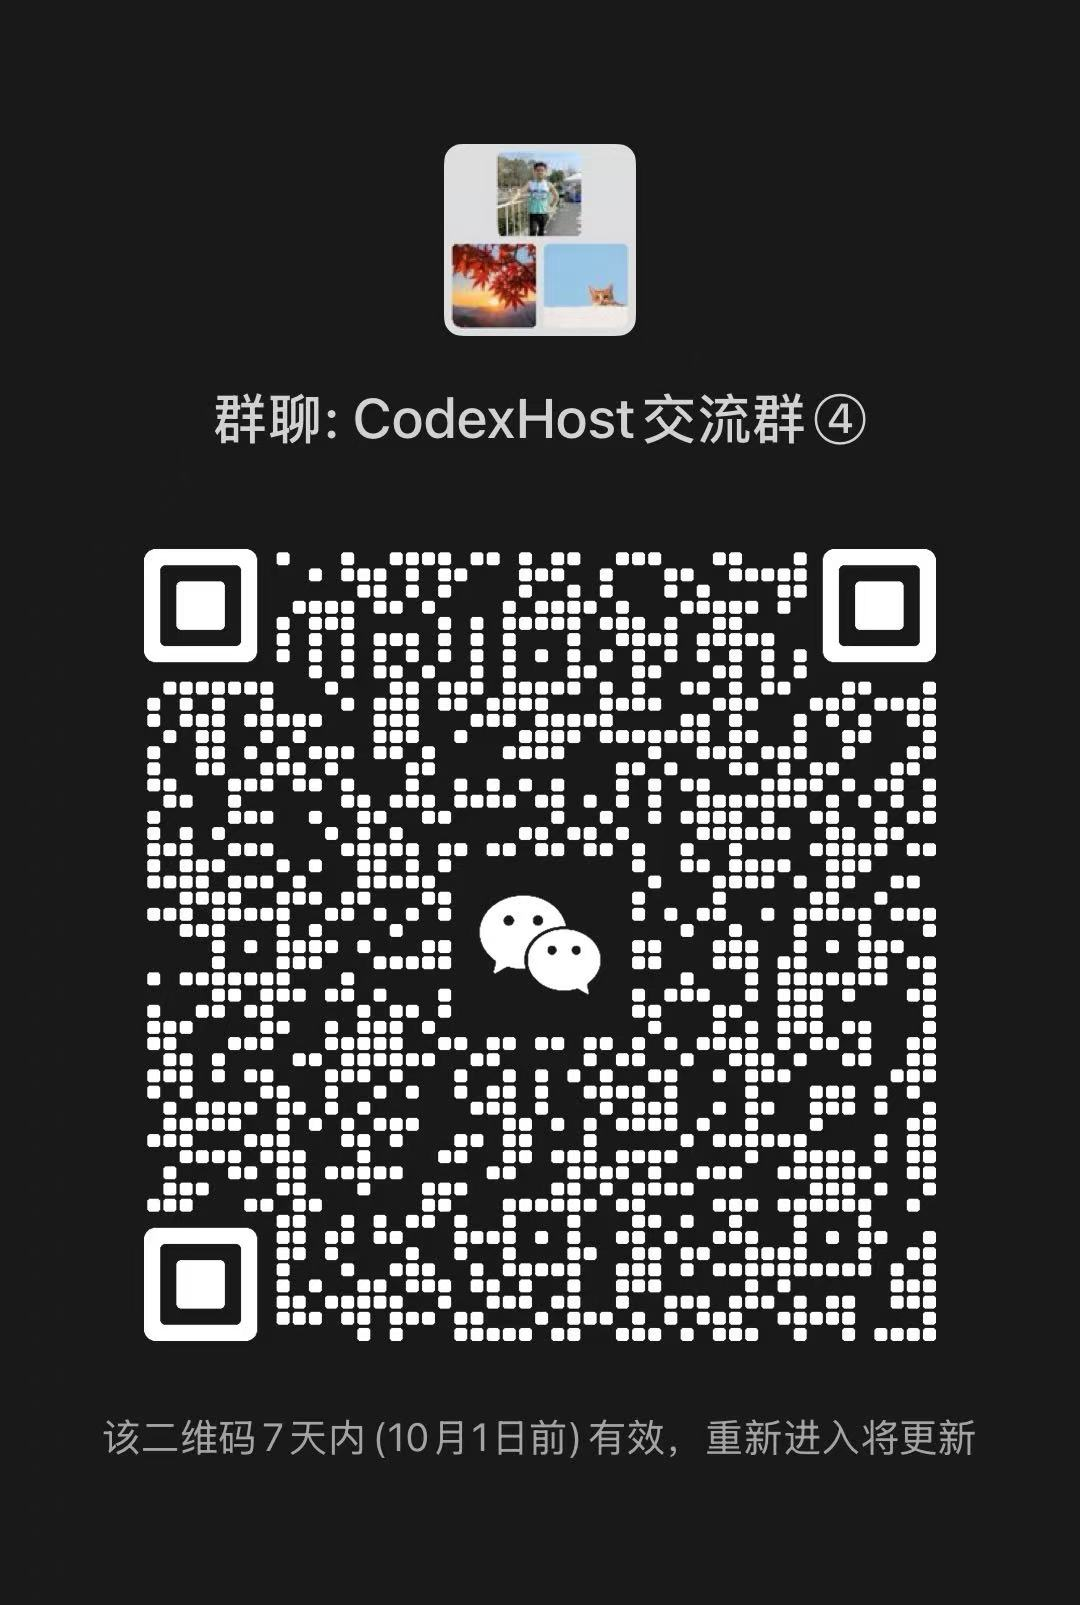
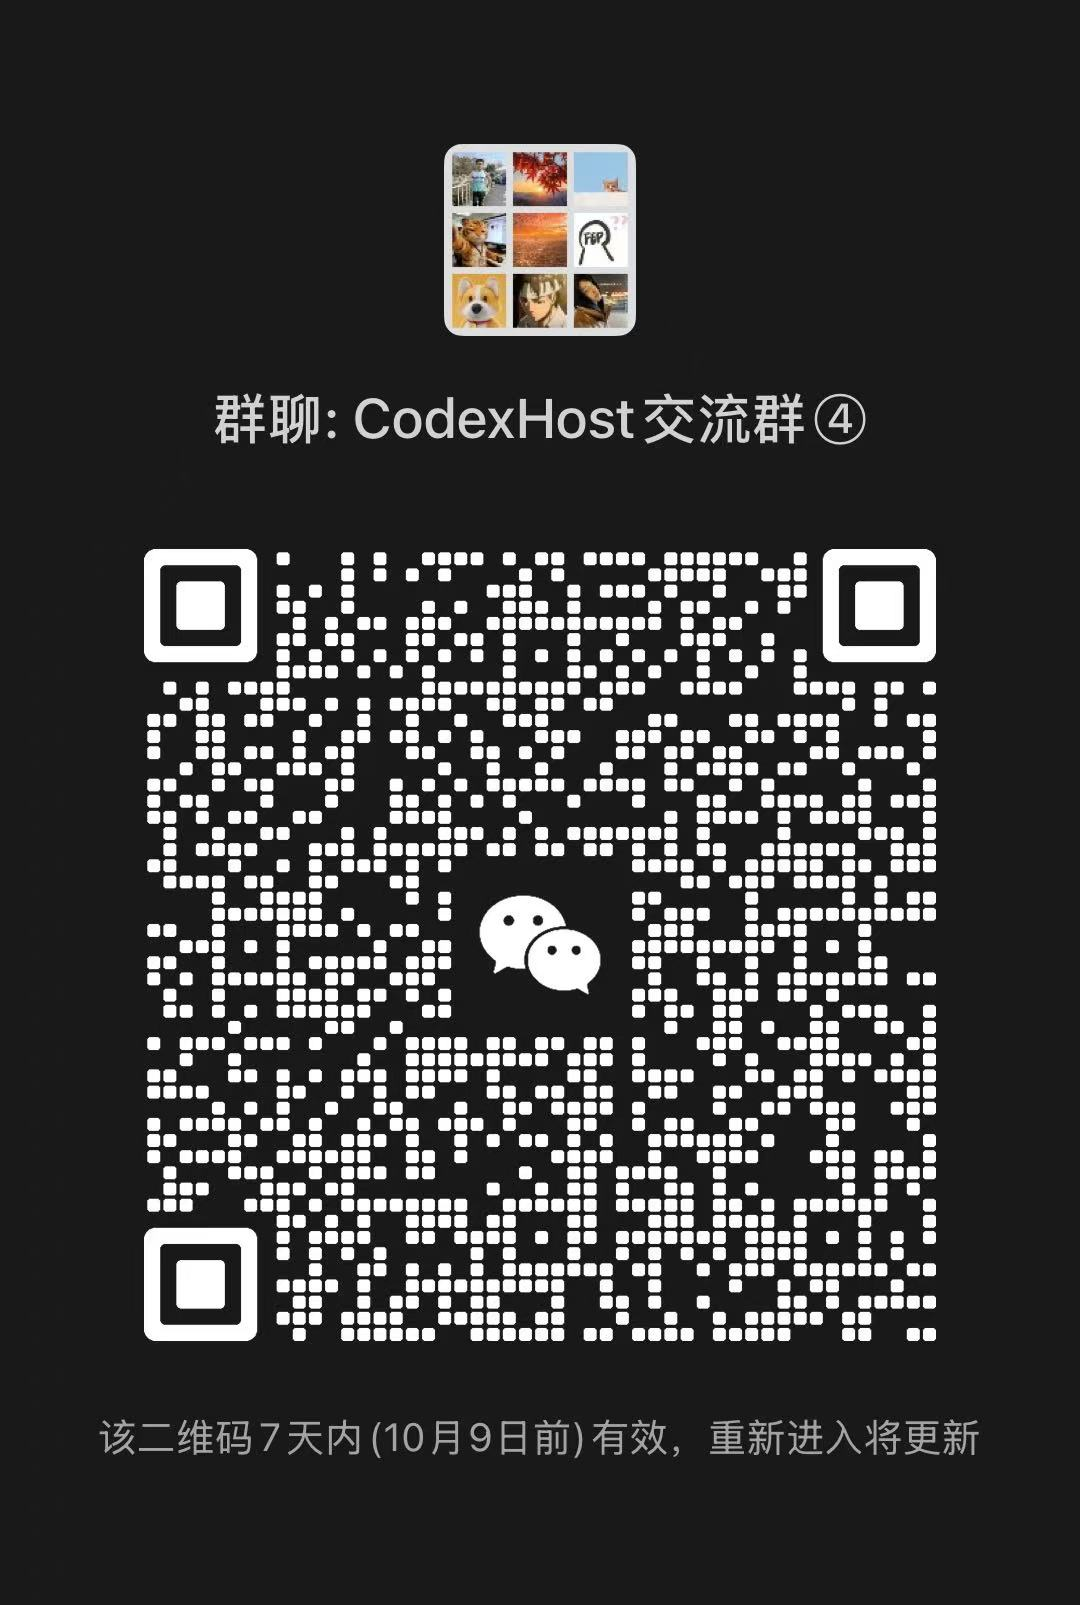
docs: update WeChat group QR code and labels

diff --git a/README.md b/README.md
@@ -31,7 +31,7 @@ But **Codex** isn't the only great **Agent Harness** — **Claude Code** and **P
 </p>
 <br />
 
-<p align="center"><a href="https://github.com/BytePioneer-AI/codex-host/releases"><strong>Download</strong></a> · <a href="#cross-agent-collaboration">Cross-Agent Collaboration</a> · <a href="#remote-harness">Remote</a> · <a href="#join-the-community">Community</a> · <a href="docs/project/README.zh-CN.md">简体中文</a> · <a href="docs/project/README.ko.md">한국어</a></p>
+<p align="center"><a href="https://github.com/BytePioneer-AI/codex-host/releases"><strong>Download</strong></a> · <a href="#cross-agent-collaboration">Cross-Agent Collaboration</a> · <a href="#remote-harness">Remote</a> · <a href="#join-the-community">微信交流群</a> · <a href="docs/project/README.zh-CN.md">简体中文</a> · <a href="docs/project/README.ko.md">한국어</a></p>
 
 <br />
 
@@ -280,12 +280,14 @@ CodexHost does it differently:
 
 </details>
 
-## Join the Community
+<a id="join-the-community"></a>
+
+## 微信交流群
 
 <table align="center">
   <tr>
     <td>
-      <strong>Join the Community</strong><br />
+      <strong>微信交流群</strong><br />
       <sub>Scan the QR code to join our WeChat group and chat about CodexHost.</sub>
       <ul>
         <li><sub>Get help with installation</sub></li>

diff --git a/docs/project/README.ko.md b/docs/project/README.ko.md
@@ -30,7 +30,7 @@
 </p>
 <br />
 
-<p align="center"><a href="https://github.com/BytePioneer-AI/codex-host/releases"><strong>다운로드</strong></a> · <a href="#agent-간-협업">Agent 간 협업</a> · <a href="#원격-harness">원격 연결</a> · <a href="#교류-그룹-참여">교류 그룹</a> · <a href="README.zh-CN.md">简体中文</a> · <a href="../../README.md">English</a></p>
+<p align="center"><a href="https://github.com/BytePioneer-AI/codex-host/releases"><strong>다운로드</strong></a> · <a href="#agent-간-협업">Agent 간 협업</a> · <a href="#원격-harness">원격 연결</a> · <a href="#교류-그룹-참여">微信交流群</a> · <a href="README.zh-CN.md">简体中文</a> · <a href="../../README.md">English</a></p>
 
 <br />
 
@@ -279,12 +279,14 @@ CodexHost는 다른 방식을 택합니다.
 
 </details>
 
-## 교류 그룹 참여
+<a id="교류-그룹-참여"></a>
+
+## 微信交流群
 
 <table align="center">
   <tr>
     <td>
-      <strong>교류 그룹 참여</strong><br />
+      <strong>微信交流群</strong><br />
       <sub>CodexHost 사용법과 기능에 관심 있는 개발자는 QR 코드를 스캔해 위챗 그룹에 참여할 수 있습니다.</sub>
       <ul>
         <li><sub>설치 문제는 그룹에서 질문할 수 있습니다</sub></li>

diff --git a/docs/project/README.zh-CN.md b/docs/project/README.zh-CN.md
@@ -30,7 +30,7 @@
 </p>
 <br />
 
-<p align="center"><a href="https://github.com/BytePioneer-AI/codex-host/releases"><strong>下载</strong></a> · <a href="#跨-agent-协作">跨 Agent 协作</a> · <a href="#远程连接-harness">远程连接</a> · <a href="#加入交流群">交流群</a> · <a href="../../README.md">English</a> · <a href="README.ko.md">한국어</a></p>
+<p align="center"><a href="https://github.com/BytePioneer-AI/codex-host/releases"><strong>下载</strong></a> · <a href="#跨-agent-协作">跨 Agent 协作</a> · <a href="#远程连接-harness">远程连接</a> · <a href="#加入交流群">微信交流群</a> · <a href="../../README.md">English</a> · <a href="README.ko.md">한국어</a></p>
 
 <br />
 
@@ -280,12 +280,14 @@ CodexHost 的做法不同：
 
 </details>
 
-## 加入交流群
+<a id="加入交流群"></a>
+
+## 微信交流群
 
 <table align="center">
   <tr>
     <td>
-      <strong>加入交流群</strong><br />
+      <strong>微信交流群</strong><br />
       <sub>对 CodexHost 用法、功能感兴趣的开发者可以扫码加入微信群交流。</sub>
       <ul>
         <li><sub>安装问题可以加群询问</sub></li>
